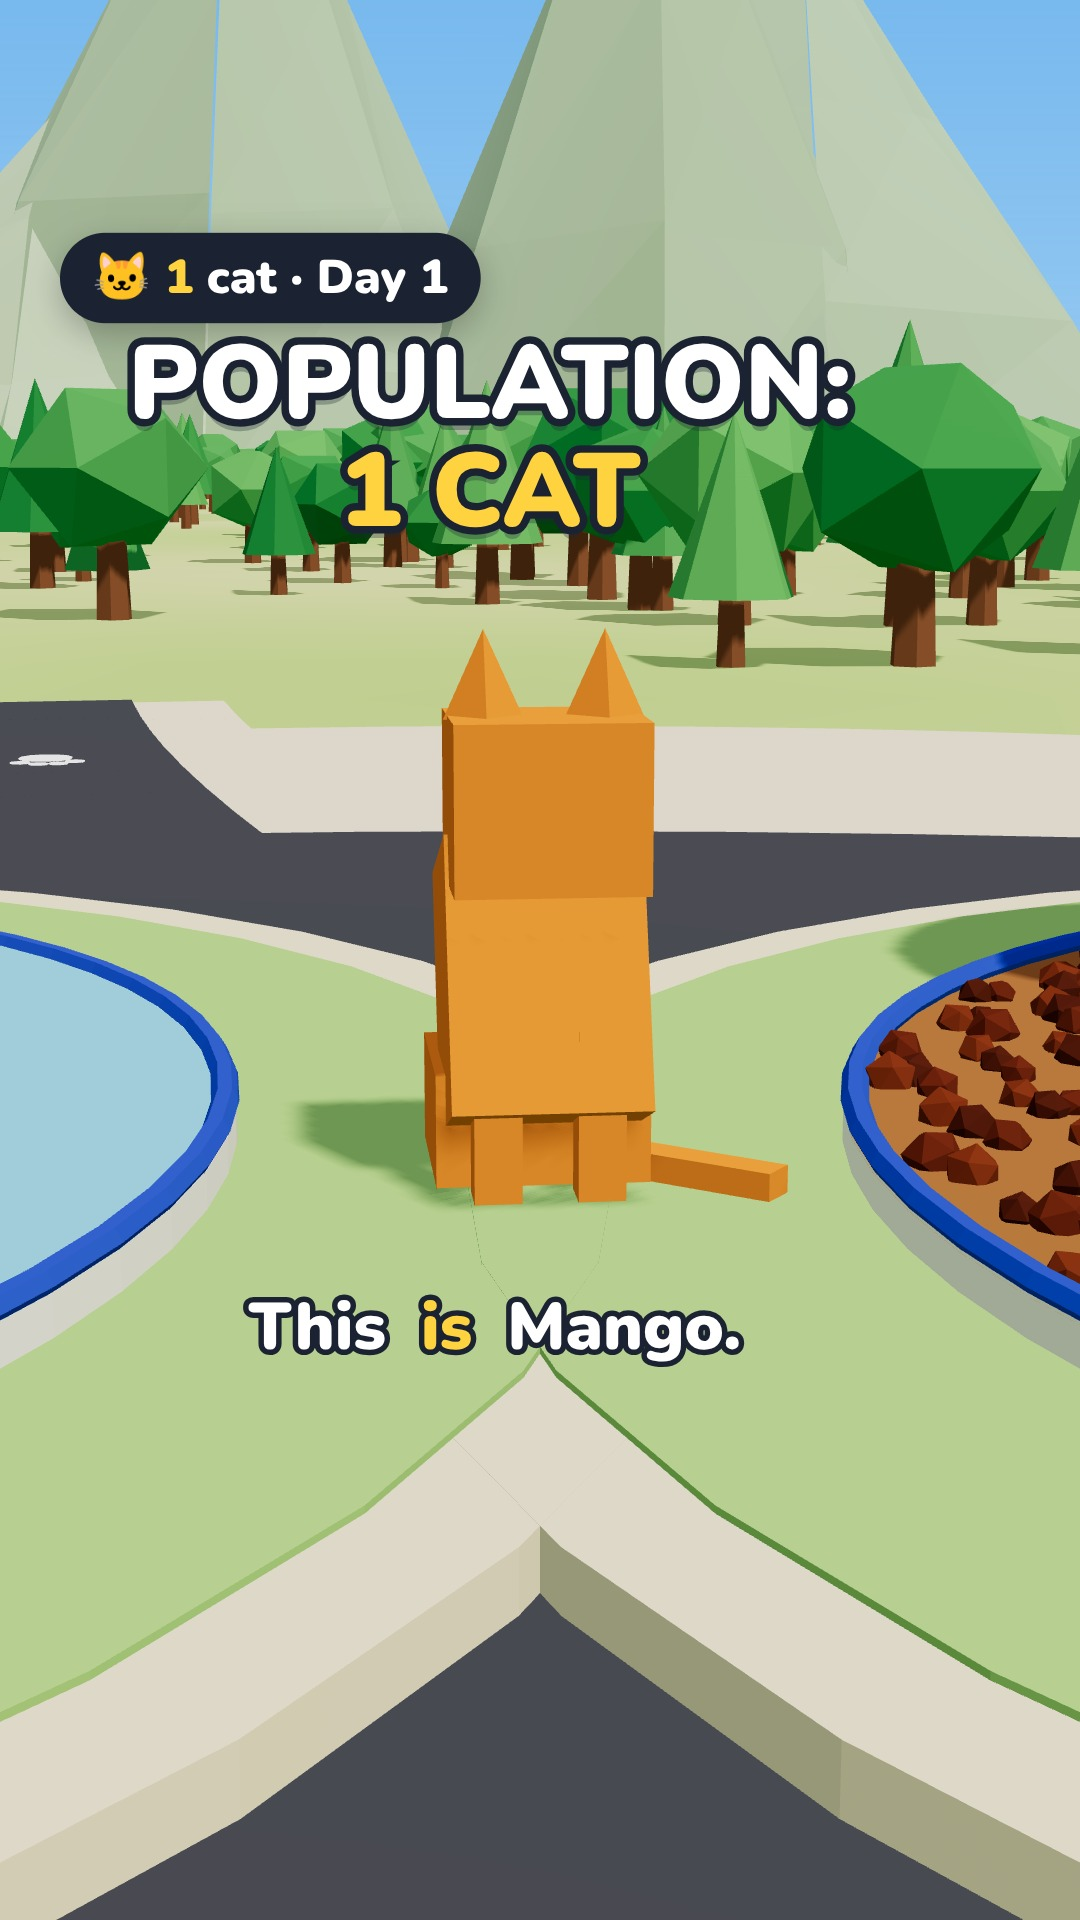
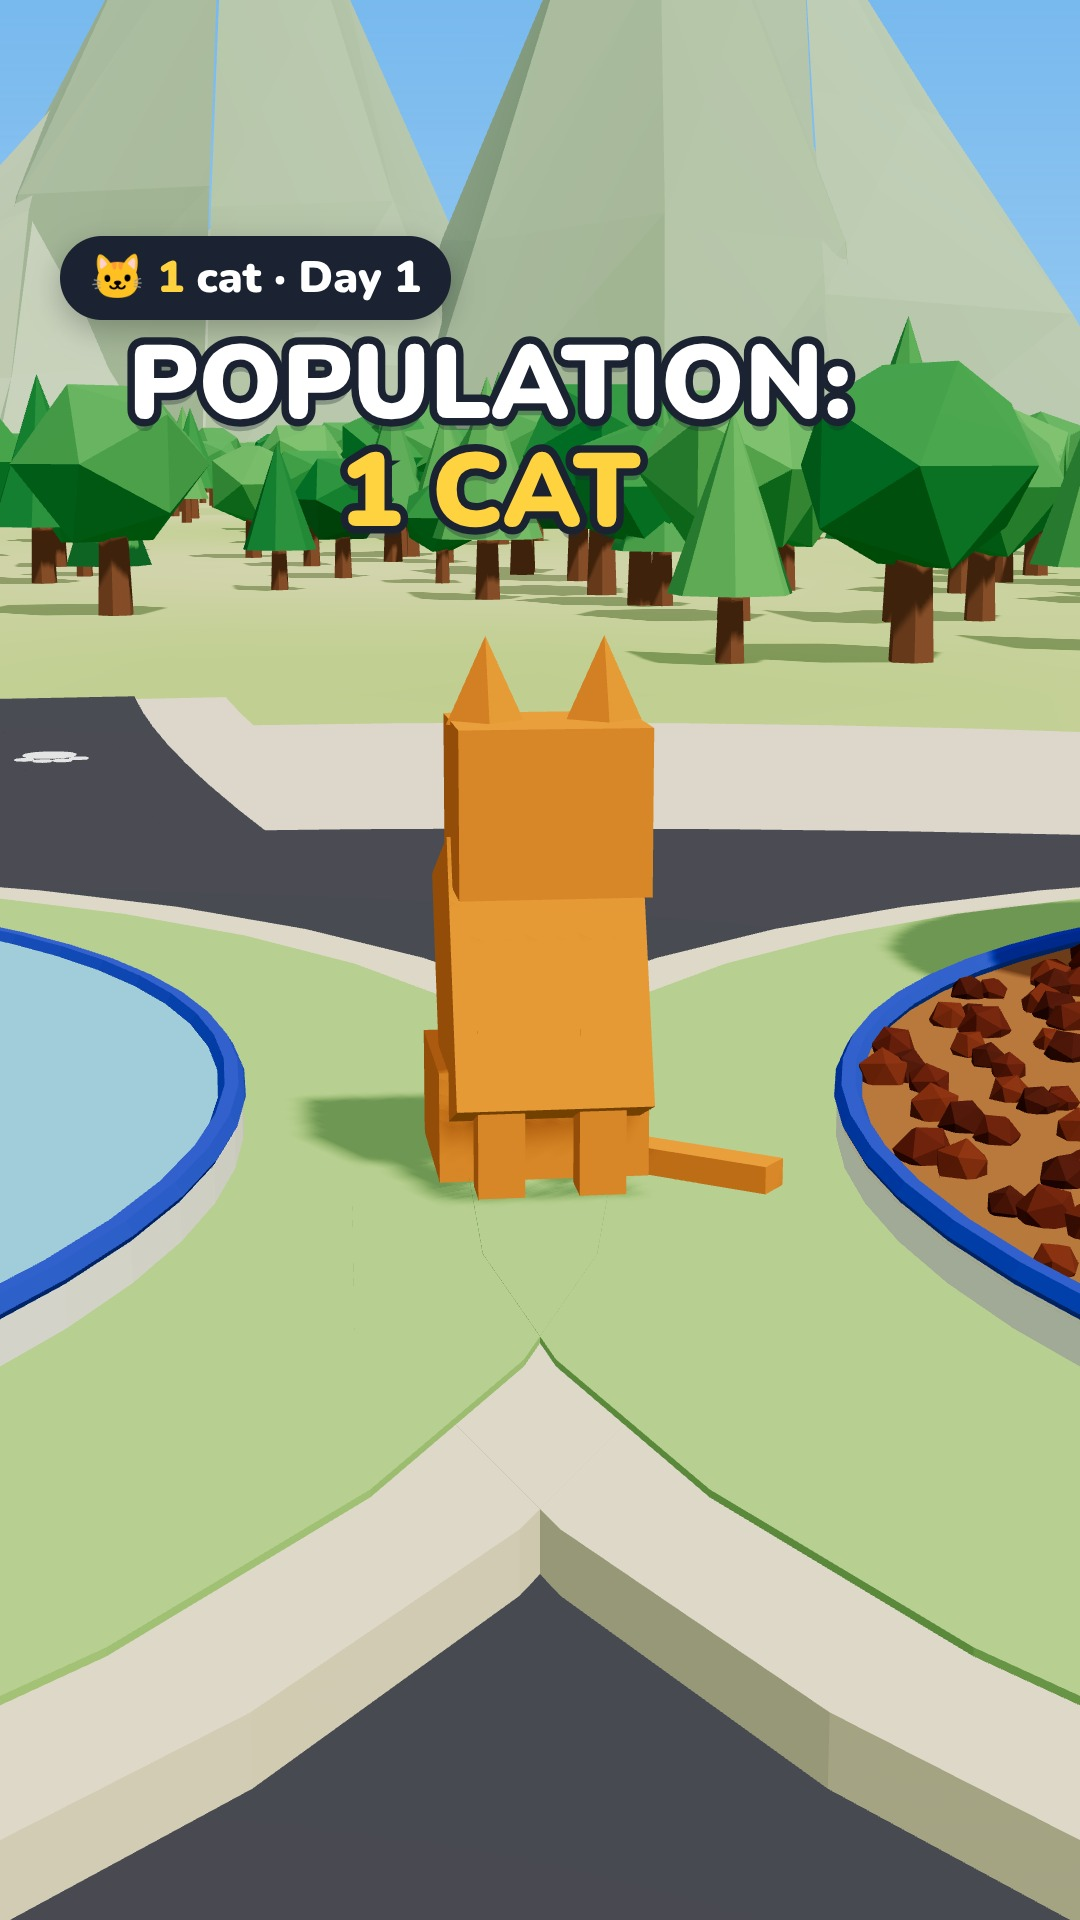
Cat Town Day 1: hold the goal shot longer, clean cover
Claude-Session: https://claude.ai/code/session_01HndyrrehxXUejUBpVEZZwS

diff --git a/petme2-ads-agent/social/cat-town/episodes/day-1-v2/overlay.js b/petme2-ads-agent/social/cat-town/episodes/day-1-v2/overlay.js
@@ -18,7 +18,7 @@
   window.ovDraw = (T, D) => {
     let h = '';
     const beat = D.beats.find(b => T >= b.s && T < b.e);
-    if (D.pill && !(T >= 12.8 && T < 14.25)) { const k = back((T - .25) / .35); h += `<div class="pill" style="transform:scale(${k});transform-origin:left center">🐱 <b>1</b> cat · Day 1</div>`; }
+    if (D.pill && !(T >= 12.8 && T < 14.65)) { const k = back((T - .25) / .35); h += `<div class="pill" style="transform:scale(${k});transform-origin:left center">🐱 <b>1</b> cat · Day 1</div>`; }
     if (beat) { const k = back((T - beat.s) / .3); h += `<div class="big" style="transform:scale(${.6 + .4 * k});opacity:${Math.min(1, (T - beat.s) / .12)}">${beat.html}</div>`;
       if (beat.small && T >= beat.ss) h += `<div class="small" style="top:${beat.sy}px;transform:scale(${back((T - beat.ss) / .3)})">${beat.small}</div>`;
       if (beat.follow && T >= beat.fs) { const k2 = back((T - beat.fs) / .35), pulse = 1 + .05 * Math.sin((T - beat.fs) * 8); h += `<div class="follow" style="transform:translateX(-50%) scale(${k2 * pulse})">Follow 👇</div>`; } }
@@ -26,6 +26,6 @@
     const line = D.lines.find(l => !l.hide && T >= l.s - .05 && T < l.e + .3);
     if (line) h += `<div class="cap">${line.words.map(w => `<span class="${T >= w.s && T < w.e + .05 ? 'on' : ''}">${w.w}</span>`).join(' ')}</div>`;
     const tg = document.getElementById('tags'); if (tg) tg.style.visibility = T < 11.1 ? 'hidden' : 'visible';
-    ov.innerHTML = h; ov.style.opacity = Math.min(1, Math.max(0, (18.4 - 1/30 - T) / .3)); if (tg) tg.style.opacity = ov.style.opacity;
+    ov.innerHTML = h; ov.style.opacity = Math.min(1, Math.max(0, (18.8 - 1/30 - T) / .3)); if (tg) tg.style.opacity = ov.style.opacity;
   };
 })();

diff --git a/petme2-ads-agent/social/cat-town/episodes/day-1-v2/render.js b/petme2-ads-agent/social/cat-town/episodes/day-1-v2/render.js
@@ -1,7 +1,7 @@
 // node render.js test T1,T2,...   |  node render.js range i0 i1  (frames at 30 fps -> v/frames/fNNNN.jpg)
 const { chromium } = require('playwright'); const fs = require('fs');
 const D = JSON.parse(fs.readFileSync(__dirname + '/v/text.json'));
-const SEG = T => T < 4.55 ? ['e0', 0] : T < 5.8 ? ['e0', 5] : T < 6.6 ? ['e0', 15] : T < 7.4 ? ['e0', 8] : T < 12.8 ? ['e1', 18] : T < 14.25 ? ['e2', 0] : ['e0', -18.4];
+const SEG = T => T < 4.55 ? ['e0', 0] : T < 5.8 ? ['e0', 5] : T < 6.6 ? ['e0', 15] : T < 7.4 ? ['e0', 8] : T < 12.8 ? ['e1', 18] : T < 14.65 ? ['e2', 0] : ['e0', -18.8];
 (async () => {
   const [mode, a, b] = process.argv.slice(2);
   const Ts = mode === 'test' ? a.split(',').map(Number) : [...Array(+b - +a).keys()].map(i => (i + +a) / 30);

diff --git a/petme2-ads-agent/social/cat-town/episodes/day-1-v2/audio.py b/petme2-ads-agent/social/cat-town/episodes/day-1-v2/audio.py
@@ -1,5 +1,5 @@
 import numpy as np, json, soundfile as sf
-SR=48000; DUR=18.4; N=int(SR*DUR); t=np.arange(N)/SR
+SR=48000; DUR=18.8; N=int(SR*DUR); t=np.arange(N)/SR
 mus=np.zeros(N); sfx=np.zeros(N)
 def env(n,a=.005,r=.3):
     x=np.arange(n)/SR; return np.minimum(1,x/a)*np.exp(-x/r)
@@ -14,7 +14,7 @@ prog=[[60,64,67,72],[57,60,64,69],[53,57,60,65],[55,59,62,67]]
 b=0; T=0.0
 while T<DUR:
     ch=prog[(b//4)%4]; n=ch[b%4] + (12 if b%8>=4 else 0)
-    quiet = 6.6<=T<7.4 or 14.25<=T<14.9
+    quiet = 6.6<=T<7.4 or 14.65<=T<15.3
     if not quiet: add(mus,T,tone(mid(n),1.2,.35),.16)
     if b%4==0 and not quiet: add(mus,T,tone(mid(ch[0]-24),2.4,.9,.02,(1,.3)),.22)
     b+=1; T=b*beat/2
@@ -22,9 +22,9 @@ while T<DUR:
 add(mus,6.65,tone(mid(57),1.2,.6,.02,(1,.2)),.25)
 # swell on goal: pad chord
 for n in [60,64,67,72,76]:
-    x=np.arange(int(1.45*SR))/SR; s=np.sin(2*np.pi*mid(n)*x)*np.minimum(1,x/.4)*np.minimum(1,(1.45-x)/.1); add(mus,12.8,s,.09)
+    x=np.arange(int(1.85*SR))/SR; s=np.sin(2*np.pi*mid(n)*x)*np.minimum(1,x/.4)*np.minimum(1,(1.85-x)/.1); add(mus,12.8,s,.09)
 # resolve note at end into loop
-add(mus,17.7,tone(mid(72),1.0,.5),.18)
+add(mus,18.1,tone(mid(72),1.0,.5),.18)
 def pop(f0=500,f1=1400,d=.12):
     x=np.arange(int(d*SR))/SR; f=f0+(f1-f0)*x/d; return np.sin(2*np.pi*np.cumsum(f)/SR)*env(len(x),.002,.05)
 def noise(d,lp=.2):
@@ -40,8 +40,8 @@ for k in range(6): add(sfx,5.85+k*.11,noise(.05,.6)*env(int(.05*SR),.001,.015),.
 for s,f in [(9.75,600),(10.65,700),(11.55,800)]:
     add(sfx,s,pop(f,f*2.4,.14),1.1); add(sfx,s+.08,tone(f*2,.6,.25,.003,(1,.3)),.3)          # pop + chime
 for k,n in enumerate([84,88,91,96]): add(sfx,12.82+k*.06,tone(mid(n),.8,.3,.002,(1,)),.12)  # sparkle
-add(sfx,14.25,tone(110,.5,.15,.002,(1,.6,.3)),.35)                                          # thud back to reality
-add(sfx,16.2,pop(700,1600,.12),.5)
+add(sfx,14.65,tone(110,.5,.15,.002,(1,.6,.3)),.35)                                          # thud back to reality
+add(sfx,16.6,pop(700,1600,.12),.5)
 # voice
 L=json.load(open('/tmp/tts/timeline.json')); voc=np.zeros(N)
 for l in L:

diff --git a/petme2-ads-agent/social/cat-town/episodes/day-1-v2/mk.py b/petme2-ads-agent/social/cat-town/episodes/day-1-v2/mk.py
@@ -10,12 +10,12 @@ S = [  # t0,t1,p0,p1,l0,l1,inout
  (9.4, 10.3,[-8,16,60],[-9,14,57],[-18.8,2,33.5],[-18.8,2,33.5],0),
  (10.3,11.1,[64,14,17],[61,13,14],[37.4,2,3.3],[37.4,2,3.3],0),
  (11.1,12.8,[36,14,56],[18,70,100],[23,2,30],[6,0,16],1),
- (12.8,14.25,[275,128,185],[240,110,160],[-40,0,0],[-40,0,0],0),
- (14.25,15.9,[12,150,120],[10,140,110],[0,0,-10],[0,0,-10],0),
- (15.9,18.4,[10,140,110],[0,3.6,11],[0,0,-10],[0,2.1,0],1),
+ (12.8,14.65,[275,128,185],[232,106,155],[-40,0,0],[-40,0,0],0),
+ (14.65,16.3,[12,150,120],[10,140,110],[0,0,-10],[0,0,-10],0),
+ (16.3,18.8,[10,140,110],[0,3.6,11],[0,0,-10],[0,2.1,0],1),
 ]
 shots = [dict(t0=a,t1=b,p0=p0,p1=p1,l0=l0,l1=l1,inout=bool(io)) for a,b,p0,p1,l0,l1,io in S]
-base = dict(day=1, followersBefore=0, landmarks=[], shots=shots, duration=18.4, starts=[0,0,0,99], milestone=1e9, noReserved=False)
+base = dict(day=1, followersBefore=0, landmarks=[], shots=shots, duration=18.8, starts=[0,0,0,99], milestone=1e9, noReserved=False)
 json.dump({**base, 'followersNew':0}, open('v/e0.json','w'))
 json.dump({**base, 'followersNew':3, 'newFrom':8.85, 'newTo':12.45,
   'residents':[{'by':'you','n':1},{'by':'you','n':2},{'by':'you','n':3}]}, open('v/e1.json','w'))

diff --git a/petme2-ads-agent/social/cat-town/episodes/day-1-v2/README.md b/petme2-ads-agent/social/cat-town/episodes/day-1-v2/README.md
@@ -1,7 +1,7 @@
 # Cat Town Day 1 (v2) video
 
-Final video (18.4 s, 1080x1920): project files `cat-town/day-1/cat-town-day1.mp4` (not in git, 18 MB). Cover: `cover.jpg`.
-Plan: `viral-plan.md`. Reviewer report on the first cut: `review.md` (6/10); fixes applied after it: brand sign renamed "Pet Shop" in the goal town, captions hidden when they repeat the big text, end card cut to 4 words + "Follow" button, exact loop (last segment anim = T - 18.4 so the last frame matches frame 0, text fades out), tag kept inside the safe zone, louder pops, music lower, stereo audio, "TODAY: 1 CAT".
+Final video (18.8 s, 1080x1920): project files `cat-town/day-1/cat-town-day1.mp4` (not in git, 18 MB). Cover: `cover.jpg`.
+Plan: `viral-plan.md`. Reviewer report on the first cut: `review.md` (6/10); fixes applied after it: brand sign renamed "Pet Shop" in the goal town, captions hidden when they repeat the big text, end card cut to 4 words + "Follow" button, exact loop (last segment anim = T - 18.4 so the last frame matches frame 0, text fades out), tag kept inside the safe zone, louder pops, music lower, stereo audio, "TODAY: 1 CAT". Later polish: goal shot held 0.4 s longer (lines after it shifted), clean cover without subtitles.
 
 ## Free pipeline (no paid credits)
 - Voice: Kokoro TTS (`af_heart`, speed 1.12) run locally (`voice_gen.py`; model files from github.com/thewh1teagle/kokoro-onnx releases). edge-tts is blocked from the cloud container (403), and files can't be copied back from the Composio sandbox.
